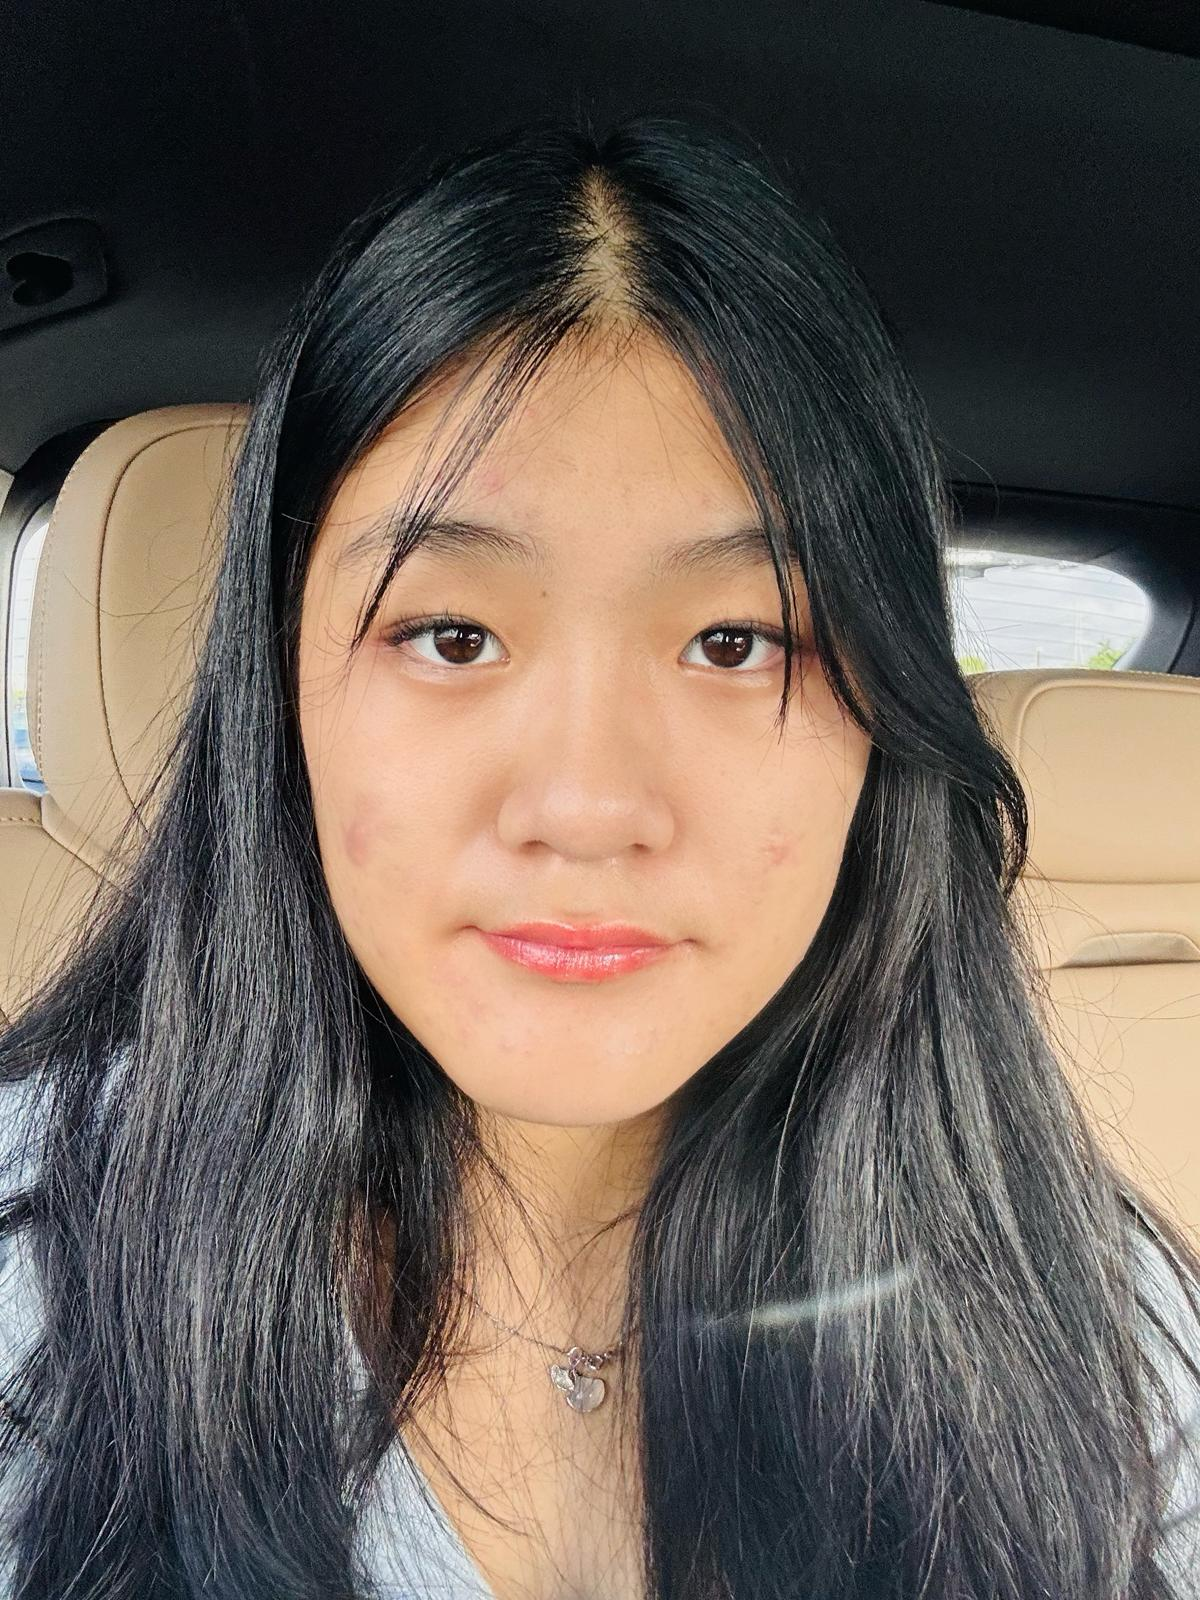
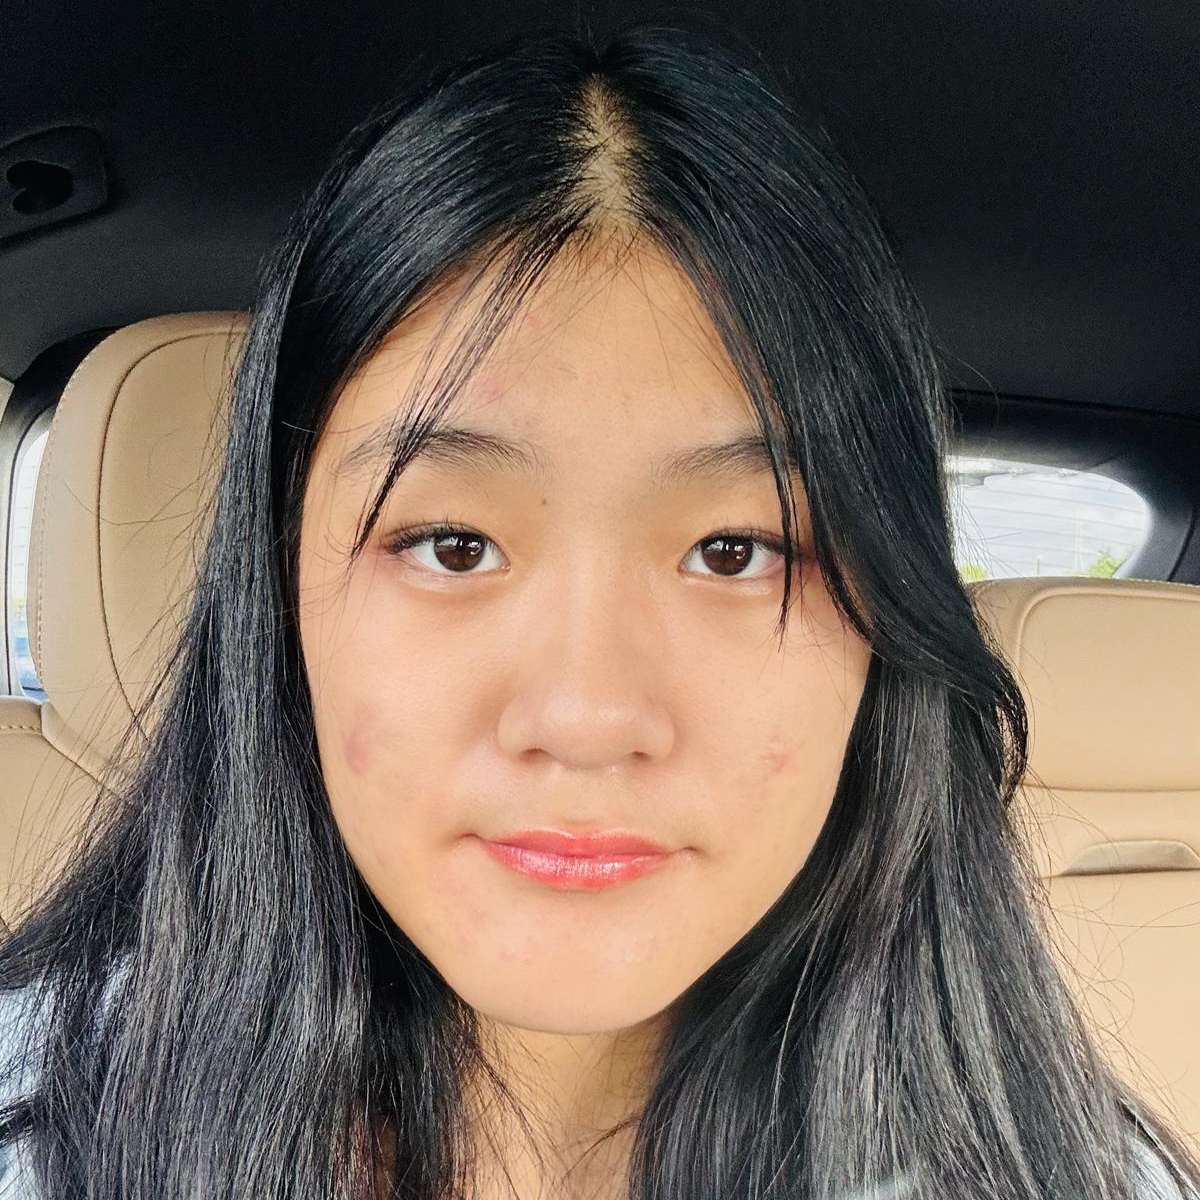
add final officers

diff --git a/src/app/about/page.tsx b/src/app/about/page.tsx
@@ -241,7 +241,7 @@ export default function AboutPage() {
                     className="rounded-full border border-[#1f639e] flex-shrink-0"
                   />
                   <Image
-                    src="/favicon.png"
+                    src="/images/about/maegann.png"
                     width={112}
                     height={112}
                     alt="Maegann Yniguez"
@@ -305,7 +305,7 @@ export default function AboutPage() {
             <Card className="flex flex-col gap-4 items-center p-4 w-full xl:w-48 xl:flex-shrink-0 shadow-md hover:shadow-lg transition-shadow duration-300">
               <CardContent className="flex flex-col items-center p-0">
                 <Image
-                  src="/favicon.png"
+                  src="/images/about/siddhi.png"
                   width={112}
                   height={112}
                   alt="Siddhi Jain"
@@ -326,7 +326,7 @@ export default function AboutPage() {
             <Card className="flex flex-col gap-4 items-center p-4 w-full xl:w-48 xl:flex-shrink-0 shadow-md hover:shadow-lg transition-shadow duration-300">
               <CardContent className="flex flex-col items-center p-0">
                 <Image
-                  src="/favicon.png"
+                  src="/images/about/lily.png"
                   width={112}
                   height={112}
                   alt="Lily Zhang"
